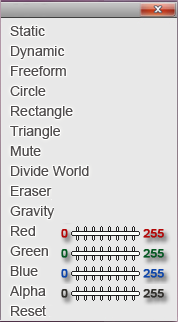
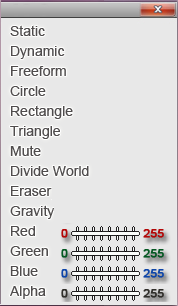
deletado screens temp, alterado menu pras barrinhas rgba funfarem!

Changed region(s): [[0.0, 0.0, 1.0, 1.0], [0.3371, 0.7059, 0.9551, 1.0]]

diff --git a/deskworld/GameStates/LevelState.cpp b/deskworld/GameStates/LevelState.cpp
@@ -146,6 +146,10 @@ int LevelState::Update(){
 
 	time = SDL_GetTicks();
 	for(Uint32 i = 0; i < inputManager->click.size(); i++){
+		worldColor.r = 0;
+		worldColor.g = 0;
+		worldColor.b = 0;
+		worldColor.a = 0;
 		menutouch = false;
 //		menuBool = false;
 //		drawBool = false;
@@ -274,76 +278,61 @@ int LevelState::Update(){
 						menuSlider[3].erase(menuSlider[3].begin()+k);
 					} else if (inputManager->click[i].y < rect.y + 222){
 						// gravity
-					} else if ((inputManager->click[i].y < rect.y + 318) &&
-							(inputManager->click[i].y > rect.y + 306) &&
-							(inputManager->click[i].x < rect.x + 46) &&
-							(inputManager->click[i].x > rect.x + 7)){
-						menu.erase(menu.begin()+k);
-						for (int g = 0; g < 3; g++){
-							menuSelect[g].erase(menuSelect[g].begin()+k);
-						}
-						menuSlider[0].erase(menuSlider[0].begin()+k);
-						menuSlider[1].erase(menuSlider[1].begin()+k);
-						menuSlider[2].erase(menuSlider[2].begin()+k);
-						menuSlider[3].erase(menuSlider[3].begin()+k);
-					} else if ((inputManager->click[i].y <= rect.y + 233) &&
-							(inputManager->click[i].y >= rect.y + 217) &&
+					} //else if ((inputManager->click[i].y < rect.y + 318) &&
+//							(inputManager->click[i].y > rect.y + 306) &&
+//							(inputManager->click[i].x < rect.x + 46) &&
+//							(inputManager->click[i].x > rect.x + 7)){
+//						// reset
+//						menu.erase(menu.begin()+k);
+//						for (int g = 0; g < 3; g++){
+//							menuSelect[g].erase(menuSelect[g].begin()+k);
+//						}
+//						menuSlider[0].erase(menuSlider[0].begin()+k);
+//						menuSlider[1].erase(menuSlider[1].begin()+k);
+//						menuSlider[2].erase(menuSlider[2].begin()+k);
+//						menuSlider[3].erase(menuSlider[3].begin()+k);
+					/*}*/ else if ((inputManager->click[i].y <= rect.y + 241) &&
+							(inputManager->click[i].y >= rect.y + 225) &&
 							(inputManager->click[i].x <= rect.x + 131) &&
 							(inputManager->click[i].x >= rect.x + 71)) {
-
-//						menuSliderTemp[0] = new ImageLoader("slider.png", (worldColor.r/(4.25))+(rect.x + 71), rect.y + 225);
-//						menuSliderTemp[1] = new ImageLoader("slider.png", (worldColor.g/(4.25))+(rect.x + 71), rect.y + 245);
-//						menuSliderTemp[2] = new ImageLoader("slider.png", (worldColor.b/(4.25))+(rect.x + 71), rect.y + 265);
-//						menuSliderTemp[3] = new ImageLoader("slider.png", (worldColor.a/(4.25))+(rect.x + 71), rect.y + 285);
+						menuSlider[0][k]->UpdatePos(inputManager->click[i].x, rect.y + 225);
+						worldColor.r = (Uint8) ((menuSlider[0][k]->GetRect().x - 71 - rect.x)*4.25);
+						worldColor.g = (Uint8) ((menuSlider[1][k]->GetRect().x - 71 - rect.x)*4.25);
+						worldColor.b = (Uint8) ((menuSlider[2][k]->GetRect().x - 71 - rect.x)*4.25);
+						worldColor.a = (Uint8) ((menuSlider[3][k]->GetRect().x - 71 - rect.x)*4.25);
+						currentWorld->SetWorldColor(worldColor);
+					} else if ((inputManager->click[i].y <= rect.y + 261) &&
+							(inputManager->click[i].y >= rect.y + 245) &&
+							(inputManager->click[i].x <= rect.x + 131) &&
+							(inputManager->click[i].x >= rect.x + 71)) {
+						menuSlider[1][k]->UpdatePos(inputManager->click[i].x, rect.y + 245);
+						worldColor.r = (Uint8) ((menuSlider[0][k]->GetRect().x - 71 - rect.x)*4.25);
+						worldColor.g = (Uint8) ((menuSlider[1][k]->GetRect().x - 71 - rect.x)*4.25);
+						worldColor.b = (Uint8) ((menuSlider[2][k]->GetRect().x - 71 - rect.x)*4.25);
+						worldColor.a = (Uint8) ((menuSlider[3][k]->GetRect().x - 71 - rect.x)*4.25);
+						currentWorld->SetWorldColor(worldColor);
+					} else if ((inputManager->click[i].y <= rect.y + 281) &&
+							(inputManager->click[i].y >= rect.y + 265) &&
+							(inputManager->click[i].x <= rect.x + 131) &&
+							(inputManager->click[i].x >= rect.x + 71)) {
+						menuSlider[2][k]->UpdatePos(inputManager->click[i].x, rect.y + 265);
+						worldColor.r = (Uint8) ((menuSlider[0][k]->GetRect().x - 71 - rect.x)*4.25);
+						worldColor.g = (Uint8) ((menuSlider[1][k]->GetRect().x - 71 - rect.x)*4.25);
+						worldColor.b = (Uint8) ((menuSlider[2][k]->GetRect().x - 71 - rect.x)*4.25);
+						worldColor.a = (Uint8) ((menuSlider[3][k]->GetRect().x - 71 - rect.x)*4.25);
+						currentWorld->SetWorldColor(worldColor);
+					} else if ((inputManager->click[i].y <= rect.y + 301) &&
+							(inputManager->click[i].y >= rect.y + 285) &&
+							(inputManager->click[i].x <= rect.x + 131) &&
+							(inputManager->click[i].x >= rect.x + 71)) {
+						menuSlider[3][k]->UpdatePos(inputManager->click[i].x, rect.y + 285);
+						worldColor.r = (Uint8) ((menuSlider[0][k]->GetRect().x - 71 - rect.x)*4.25);
+						worldColor.g = (Uint8) ((menuSlider[1][k]->GetRect().x - 71 - rect.x)*4.25);
+						worldColor.b = (Uint8) ((menuSlider[2][k]->GetRect().x - 71 - rect.x)*4.25);
+						worldColor.a = (Uint8) ((menuSlider[3][k]->GetRect().x - 71 - rect.x)*4.25);
+						currentWorld->SetWorldColor(worldColor);
 					}
 
-//					} else if (inputManager->click[i].y < rect.y + 183){
-//						RGBAColor worldColor;
-//						worldColor.r = 15;
-//						worldColor.g = 15;
-//						worldColor.b = 15;
-//						worldColor.a = 245;
-//						currentWorld->SetWorldColor(worldColor);
-//					} else if (inputManager->click[i].y < rect.y + 200){
-//						RGBAColor worldColor;
-//						worldColor.r = 235;
-//						worldColor.g = 39;
-//						worldColor.b = 37;
-//						worldColor.a = 245;
-//						currentWorld->SetWorldColor(worldColor);
-//					} else if (inputManager->click[i].y < rect.y + 217){
-//						RGBAColor worldColor;
-//						worldColor.r = 34;
-//						worldColor.g = 255;
-//						worldColor.b = 34;
-//						worldColor.a = 245;
-//						currentWorld->SetWorldColor(worldColor);
-//					} else if (inputManager->click[i].y < rect.y + 234){
-//						RGBAColor worldColor;
-//						worldColor.r = 34;
-//						worldColor.g = 34;
-//						worldColor.b = 255;
-//						worldColor.a = 245;
-//						currentWorld->SetWorldColor(worldColor);
-//					} else if (inputManager->click[i].y < rect.y + 251){
-//						RGBAColor worldColor;
-//						worldColor.r = 255;
-//						worldColor.g = 236;
-//						worldColor.b = 139;
-//						worldColor.a = 245;
-//						currentWorld->SetWorldColor(worldColor);
-//					} else {
-//						RGBAColor worldColor;
-//						worldColor.r = 250;
-//						worldColor.g = 240;
-//						worldColor.b = 230;
-//						worldColor.a = 245;
-//						currentWorld->SetWorldColor(worldColor);
-//					}
-//					menu.erase(menu.begin()+k);
-//					for (int g = 0; g < 3; g++){
-//						menuSelect[g].erase(menuSelect[g].begin()+k);
-//					}
 					drawObjects[inputManager->click[i].id].drawing = false;
 //					drawBool = false;
 					inputManager->click[i].release = true;
